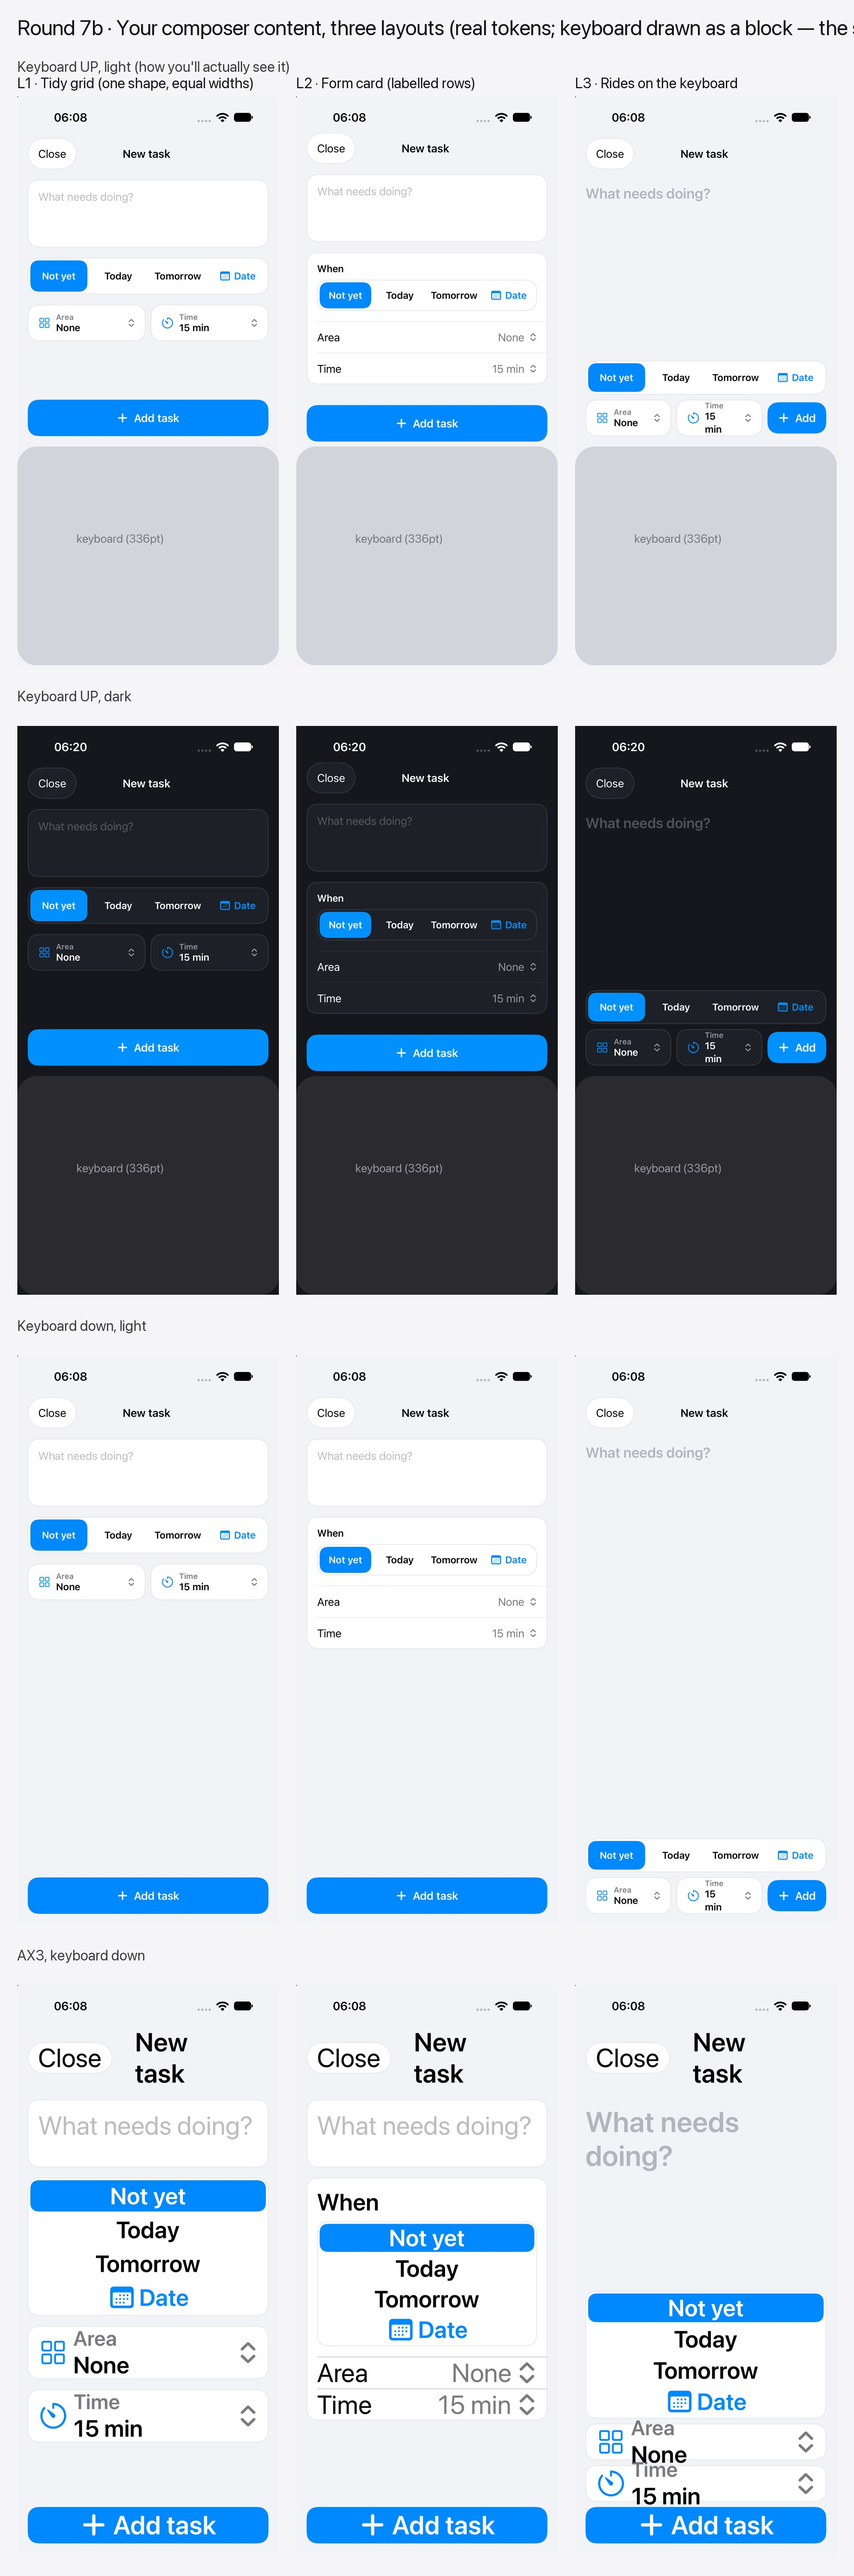
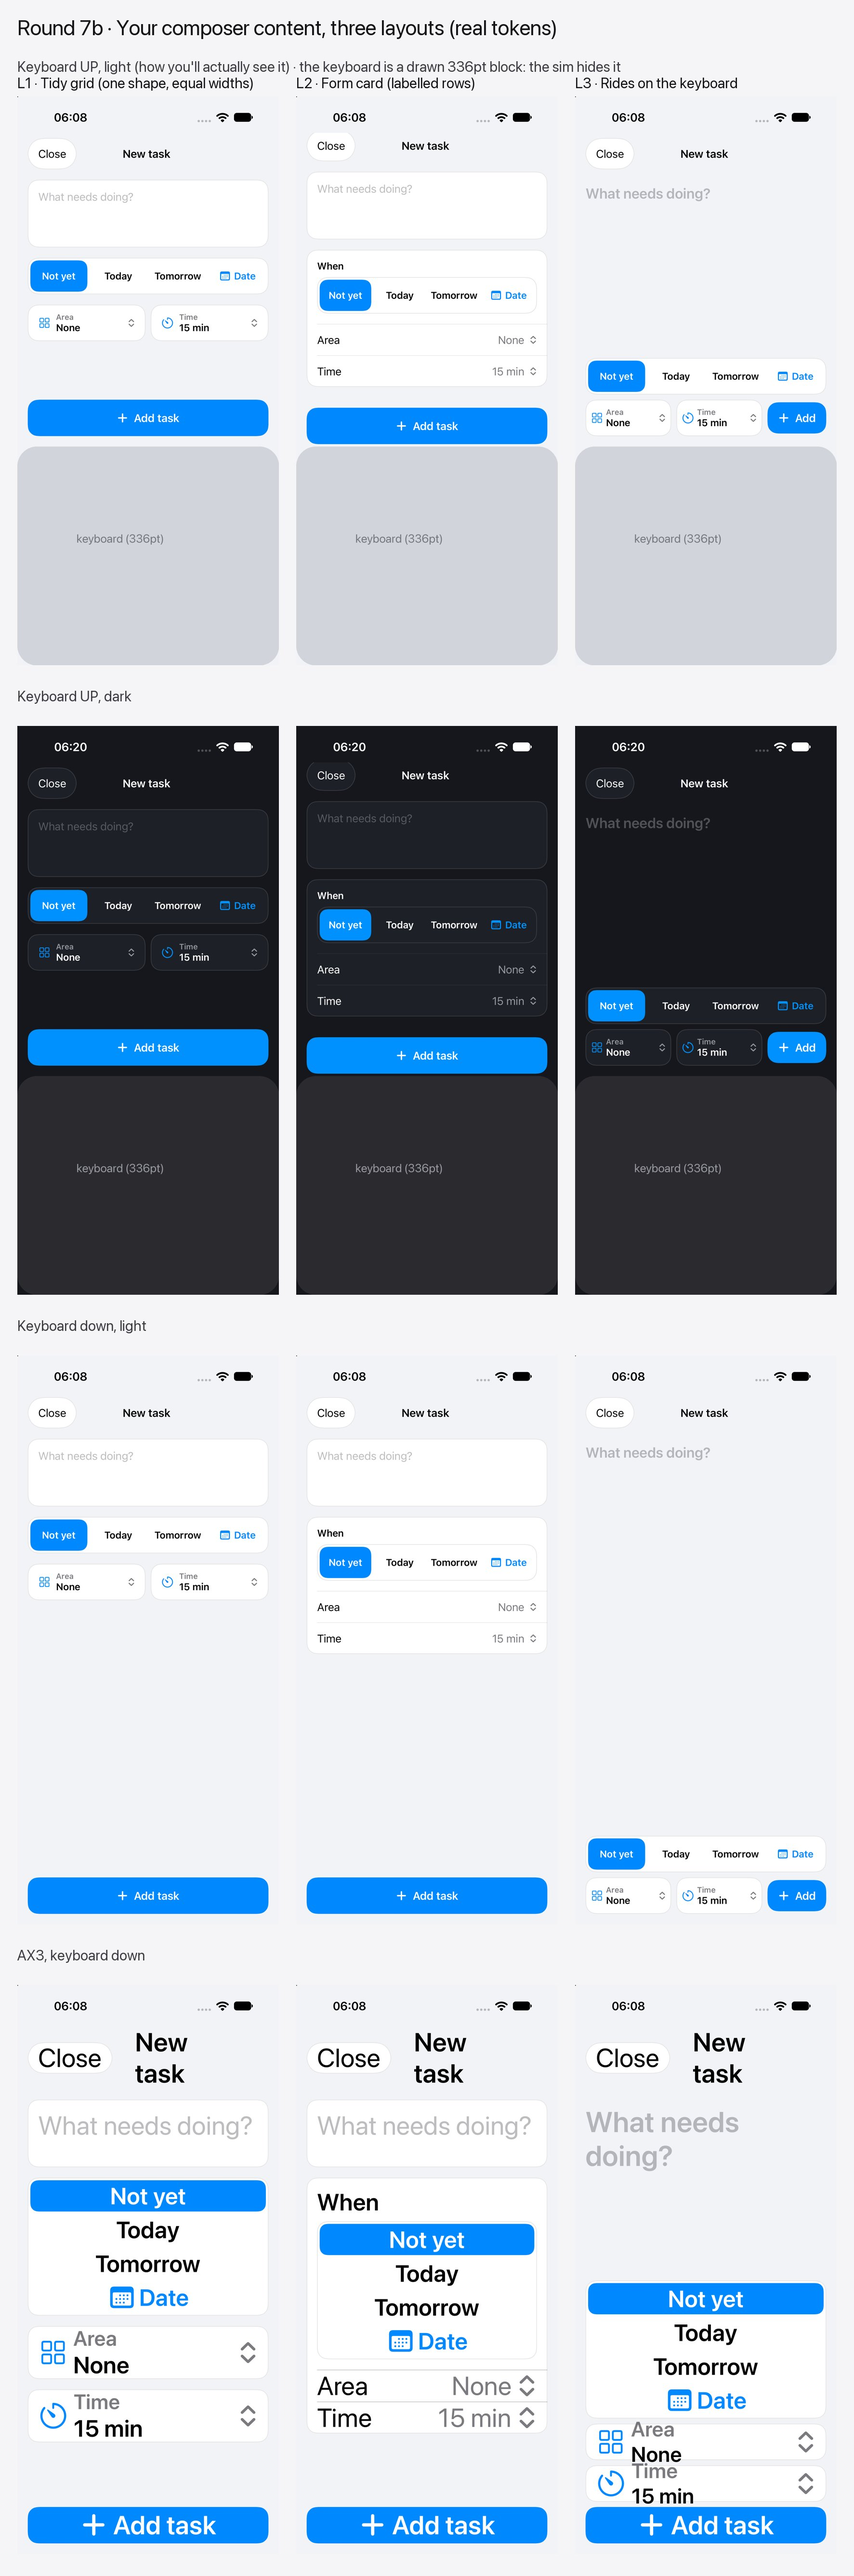
F-ADHDAudit: record round 7b (composer layout L3 + text-only Date segment), board 64 re-rendered, apple-design review as findings §L
Claude-Session: https://claude.ai/code/session_01ACVvMQcUs3Q2tcCt9h5fYG

diff --git a/scripts/audit/probes/compose_r7b.py b/scripts/audit/probes/compose_r7b.py
@@ -40,13 +40,13 @@ def main():
     titles = {"L1-tidy-grid": "L1 · Tidy grid (one shape, equal widths)",
               "L2-form-card": "L2 · Form card (labelled rows)",
               "L3-keyboard-toolbar": "L3 · Rides on the keyboard"}
-    rows = [("Keyboard UP, light (how you'll actually see it)", "up-L"), ("Keyboard UP, dark", "up-D"),
+    rows = [("Keyboard UP, light (how you'll actually see it) · the keyboard is a drawn 336pt block: the sim hides it", "up-L"), ("Keyboard UP, dark", "up-D"),
             ("Keyboard down, light", "down-L"), ("AX3, keyboard down", "down-A")]
     W = pad + 3 * (cw + pad)
     H = head + len(rows) * (ch + lab + pad + 30)
     B = Image.new("RGB", (W, H), (245, 245, 247))
     d = ImageDraw.Draw(B)
-    d.text((pad, 30), "Round 7b · Your composer content, three layouts (real tokens; keyboard drawn as a block — the sim hides it)", font=ft, fill=(20, 20, 24))
+    d.text((pad, 30), "Round 7b · Your composer content, three layouts (real tokens)", font=ft, fill=(20, 20, 24))
     y = head
     for rtitle, suffix in rows:
         d.text((pad, y), rtitle, font=fc, fill=(60, 60, 66))

diff --git a/handoff/ADHD-UX-AUDIT-WORKING-FINDINGS.md b/handoff/ADHD-UX-AUDIT-WORKING-FINDINGS.md
@@ -363,3 +363,110 @@ These are suggestions, not decisions. Each names the ADHD struggle it serves and
 
 **Not recommended:** body-doubling or "work alongside" presence (FOLK/WEAK, §5.7), and energy/mood matching (no
 evidence it helps choose tasks; offer it only as an optional filter).
+
+## L. apple-design review: the composer, three layouts (round 7b, session 3, board 64)
+
+**E chose L3 and "Text, then the date"** (design record, round 7b). The review as delivered follows.
+
+
+HIG pages generated 2026-09-19 (refreshed in place this morning, so no re-pull was owed).
+Pages read for this review: accessibility, layout, typography › Supporting Dynamic Type, color › Best practices,
+designing-for-ios, segmented-controls, pop-up-buttons, virtual-keyboards, entering-data, text-fields, buttons,
+sheets and toolbars. Contrast comes from the colorsets' hex values (`scripts/audit/contrast.py`), not from JPEGs.
+
+### Summary
+All three layouts carry E's settled content (a title, four "when" choices, Area and Time menus, and Add) in one shape
+language and with the real tokens. The rating is **Critical issues**, but every Critical except one comes from the
+token layer, not from a layout, and all of those go to round 9.
+- **The thesis:** "say what it is, tap when, add".
+- **What each is remembered by:** L3, the title owning the page with every choice riding on the keyboard. L1, a
+  tidy equal-width grid. L2, the familiar Settings card.
+
+### Critical
+- **Inherited, shared by all three, routed to round 9 (Q5/Q6; §F):**
+  - **White text on AccentColor is 3.93:1 in light and 3.65:1 in dark.** That covers the selected segment (15pt
+    semibold) and Add (17pt semibold). `accessibility.md › Vision` sets "Up to 17 pts · All · 4.5:1" and
+    "All · Bold · 3:1". Semibold is not bold under WCAG.
+    - **A candidate for round 9, not a decision here:** bold labels clear Apple's 3:1 bold row with no new palette
+      value (Q6). Round 9 owns the Q5/Q6 collision, including its middle option of fixing only the Increase
+      Contrast appearance.
+  - **The placeholder "What needs doing?" fails in every layout.**
+    - As rendered here it is LabelTertiary: 1.88:1 light, 2.33:1 dark.
+    - The live composer's field is inferred to use the system placeholder colour: 1.69:1 and 2.43:1 (§F).
+    - Both fail even the 3:1 large-text bar, and that includes L3's 22pt title.
+  - **The Area and Time captions (L1, L3), and L2's trailing values, are LabelSecondary.** That is 4.25:1 on the card
+    surface in light, which fails 4.5:1. Dark is 5.52:1 and passes.
+- **L3 only: at AX3 it cannot share the screen with the keyboard.**
+  - The stacked bar is four 48pt segments, two menus and Add. That is taller than the 482pt above a 336pt keyboard.
+  - With the keyboard down, the render shows the Area and Time buttons overlapping.
+  - `layout.md › Adaptability`: "containers may need to grow in height so that text isn't cropped or doesn't overlap
+    other content". `typography.md › Supporting Dynamic Type`: "Consider adjusting your layout at large font sizes."
+  - **Fix in the build:** at accessibility sizes, L3 falls back to L1's stacked form. The choices scroll under the
+    title and Add stays pinned to the bottom. The board's L1 AX3 column is exactly that form.
+
+### Improvements
+- **High, all three: the Date segment mixes a glyph with text.** `segmented-controls.md › Content`: "Prefer using
+  either text or images — not a mix of both — in a single segmented control."
+  - Fix: make it text only. Once a date is picked, the segment shows that date ("Fri 26").
+- **Medium, all three: one segment acts inside a selection control.** `segmented-controls.md › Best practices`:
+  "Don't assign actions to segments in a control that otherwise represents selection state."
+  - This is mitigated if Date becomes the selected segment and shows the picked date.
+  - The picker must be a menu or popover, never a second sheet (Q4, one sheet deep).
+- **Medium, all three: one colour means two things in the same control.** Accent is both the selected fill and the
+  Date text. `color.md › Best practices`: "Avoid using the same color to mean different things."
+  - Fix: set the Date text in LabelPrimary, like the other three segments.
+- **Medium, L2: the "When" label is redundant.** `segmented-controls.md › Content`: "A segmented control that
+  displays text labels doesn't need introductory text."
+  - L2 is also the only layout that shows the chosen values in grey (LabelSecondary, 4.25:1 in light).
+- **Medium, L3: the bar is at the crowding limit.** `toolbars.md › Item groupings` says to "aim for a maximum of
+  three" groups. L3 holds three: When, Area and Time, and Add.
+  - `› Item groupings` also says "Keep actions with text labels separate". Add sits 8pt from the Time menu, and both
+    are text.
+  - Keep Add trailing, where `toolbars.md › Actions` puts the primary action: "put it on the trailing side".
+- **Low, all three: gaps between bezelled controls are below the HIG's suggestion.** `accessibility.md › Mobility`
+  suggests "about 12 points of padding around elements that include a bezel". All three use 8pt.
+  - 12 is banned in this app (§2). The house answer is 16 where space allows: L1's Area | Time gap, and L2's rows.
+  - L3 cannot afford 16.
+- **Low, all three: capitalisation.** `segmented-controls.md › Content` and `buttons.md › Content` ask for
+  title-style ("Not Yet", "Add Task"). The app's copy is sentence case throughout.
+  - This is round 10's X-CAPS item. Named here, not fixed here.
+
+### Named divergence (E's Q8 governs)
+`sheets.md › Mobile` puts Done "on the trailing edge" of the top toolbar. All three layouts put Add at the bottom, by
+E's rule. The design record already carries this divergence.
+
+### Craft notes
+- **L3 has the point of view.** The title is the hero, and the choices wait underneath like a keyboard row.
+  - It matches the capture-first rhythm the app is built on: dump it, then decide (research §1.3).
+- **L1 is neat but reads as a form. L2 reads as Settings.** Both are competent and neither has a signature.
+- **Remove one accessory:** the calendar glyph on Date (all three), and L2's "When" label.
+
+### What works
+- **All three offer choices instead of typing.** `entering-data.md › Best practices`: "When possible, offer choices
+  instead of requiring text entry."
+- **Useful defaults are already selected:** Not yet, None and 15 min. `pop-up-buttons.md › Best practices`:
+  "Provide a useful default selection."
+- **Each menu carries its label,** so its options are predictable. `pop-up-buttons.md › Best practices`: "Give
+  people a way to predict a pop-up button's options without opening it."
+- **Close is a 48 × 48pt target on the leading edge,** a way out other than Add. `sheets.md › Best practices`:
+  "Provide an alternative to the Done button."
+- **L3 does what the keyboard page asks.** `virtual-keyboards.md › Mobile (iOS, iPadOS)`: "Place custom controls
+  above the keyboard thoughtfully … make sure they're relevant to the current task." And
+  `designing-for-ios.md › Best practices`: "it tends to be easier and more comfortable for people to reach a control
+  when it's located in the middle or bottom area of the display".
+
+### Platform notes (for the build)
+- **L3 rides the keyboard through `safeAreaInset(edge: .bottom)`.**
+  - SwiftUI's keyboard avoidance lifts it on every OS, which makes it the iOS 16 floor path (§7.1).
+  - `ToolbarItemPlacement.keyboard` is a single row, too small for L3's two.
+- **On 26 and later, the bar's container takes Liquid Glass behind `#available`.** Below 26 it gets a standard
+  material. `virtual-keyboards.md › Mobile`: "apply Liquid Glass to the view that contains your controls".
+  `layout.md › Visual hierarchy`: "Instead of applying a solid or semi-opaque background color beneath controls".
+- **The when-choice picker is a popover or menu,** never a sheet (Q4).
+  - On iPhone a `.popover` adapts to a sheet unless `presentationCompactAdaptation(.popover)` is set (16.4+), which
+    needs a floor path on 16.0–16.3.
+- **L3's promise holds only while the keyboard stays up.** Its choices are stable while typing. If opening Area,
+  Time or the date picker dismisses the keyboard, the bar drops 336pt and jumps back, which is the instability
+  research §3.2 warns about.
+  - The build must keep the keyboard up (or hold the bar at keyboard height) while a menu or the picker is open.
+  - A test must pin it. This is unverified: SwiftUI `Menu`'s effect on the first responder was not checked here.

diff --git a/handoff/SESSION-OPENER-adhd-ux-audit-design.md b/handoff/SESSION-OPENER-adhd-ux-audit-design.md
@@ -330,6 +330,47 @@ bottom furniture cut out.
   (77×36), the Tasks "+" (27×36) and Journal's "All activity" (38×36) all become 48×48 in their standard places.
   - Stated default: the Live Activity's single +5 min is at least 44pt within its height cap.
 
+**Round 7b: the composer's layout (session 3; board `64-ROUND-7b-composer-layouts.jpg`, frames in
+`screenshots/adhd-ux-audit/round-7b-composer-layouts/`; real-token renders from a throwaway probe, deleted after).**
+
+Before E saw it, board `64` was re-rendered with two corrections:
+- Session 2's `.lineLimit(1)` fix had only turned L3's "15 / min" wrap into a truncated "15…". L3's menus now use a
+  compact 8pt inset with 4pt gaps, and "15 min" shows whole.
+- L2 and L3 had drawn the "when" segments at 40 and 44pt. All three are now 48pt, per round 7 ("the composer's own
+  chips stay 48").
+
+The `apple-design` review of the three layouts is findings §L.
+- **Layout → "L3 · Rides on the keyboard"** (Recommended).
+  - The title owns the page. Every choice and Add sit in one bar just above the keyboard: the four "when" segments on
+    top; Area | Time | Add below, with Add trailing.
+  - With the keyboard up the bar spans 406–518pt of the 874pt screen. L1's choices sat at 252–364pt, and L2's at
+    282–440pt.
+  - Carried in the question, so part of the choice:
+    - **At AX3 the bar cannot share the screen with the keyboard,** and Area and Time overlap in the render. At
+      accessibility sizes the build uses L1's stacked form instead: the choices scroll under the title and Add stays
+      pinned.
+    - **Opening Area, Time or the date picker must NOT dismiss the keyboard,** or the bar drops 336pt and jumps back
+      (research §3.2). A test pins it.
+  - Build notes (findings §L, Platform notes):
+    - The bar rides the keyboard through `safeAreaInset(edge: .bottom)`, which is the 16 floor.
+    - The container takes Liquid Glass on 26+ behind `#available`, and a standard material below.
+    - `ToolbarItemPlacement.keyboard` is one row, so it cannot hold the bar.
+    - The date picker is a popover or menu, never a sheet (Q4). On iPhone a `.popover` needs
+      `presentationCompactAdaptation(.popover)` (16.4+) and a floor path.
+  - Rejected:
+    - L1 · Tidy grid (choices high, 174–286pt above the keyboard).
+    - L2 · Form card (Settings-familiar, but grey values and a redundant "When" label).
+- **The Date segment → "Text, then the date"** (Recommended).
+  - It reads "Date" in LabelPrimary like its neighbours, with no calendar glyph.
+  - Once a date is picked, Date becomes the selected segment and shows that date ("Fri 26").
+  - This fixes all three `apple-design` findings on it:
+    - `segmented-controls.md › Content`: "either text or images — not a mix";
+    - an action segment inside a selection control;
+    - `color.md › Best practices`: accent meaning both "selected" and "opens a picker".
+- **Routed, not decided:** the review's contrast Criticals go to round 9. They are the placeholder, LabelSecondary
+  4.25:1 in light, and white on accent (3.93:1 light / 3.65:1 dark at 15–17pt semibold). "Make the labels bold" is
+  offered there as a candidate, beside the Q5/Q6 middle option.
+
 **Housekeeping note (session 2 hand-off).** Two throwaway render probes were swept into intermediate commits by `git add -A`:
 - the hero probe: in `3f8a187`, removed `952fdd3`;
 - the composer probe: in `d62cda0` and `a715d6b`, removed in the hand-off merge `670dbb7`.

diff --git a/screenshots/adhd-ux-audit/README.md b/screenshots/adhd-ux-audit/README.md
@@ -52,5 +52,6 @@ project. The simulator is to be erased at close-out.
 | `61` round 6b E's combo as read | title + four 'when' chips + area/time menus — **E: the chips are correct, the layout 'quite ugly'** |
 | `62` round 7 targets | controls under 44pt (red) / 48pt (orange) boxed from the accessibility tree: Settings 40×40, Tasks '+' 27×36, filters 36, composer Cancel 77×36, chips 36, tag Add 24×14, Back 36×36, steppers 47×32, Journal 'All activity' 38×36, inbox Undo 34×16 |
 | `63` round 8 pressure copy | 'OVERDUE' in headers and rows, 'Close it — keeps a 6-day streak', orange 'quiet since Tuesday', 'oldest is 13 hours old', 'decide or bin them' (asked in session 3) |
-| `64` round 7b composer layouts | E's settled composer content in three layouts — L1 tidy grid / L2 form card / L3 rides on the keyboard — keyboard up (drawn as a 336pt block; the sim hides the software keyboard) and down, light / dark / AX3 (asked in session 3) |
+| `64` round 7b composer layouts | E's settled composer content in three layouts — L1 tidy grid / L2 form card / L3 rides on the keyboard — keyboard up (drawn as a 336pt block; the sim hides the software keyboard) and down, light / dark / AX3. Re-rendered in session 3 before E saw it: L3's Time reads "15 min" whole (was "15 / min", then "15…"), and all segments are round 7's 48pt (L2 and L3 were 40 and 44). L3's AX3 column still shows its known overlap. **E chose L3**, plus a text-only Date segment that shows the picked date |
+| `round-7b-composer-layouts/` | the 12 full-size composites behind board `64` (`<layout>-<up|down>-<L|D|A>.jpg`) |
 | `full/` | **every seeded tab frame** — `s-<tab>-L|D|A-pN.jpg` (light / dark / AX3, top→bottom) and `s-taskdetail-L-*`; the HIG reviews cite these (rounds 3, 4, 9) |
